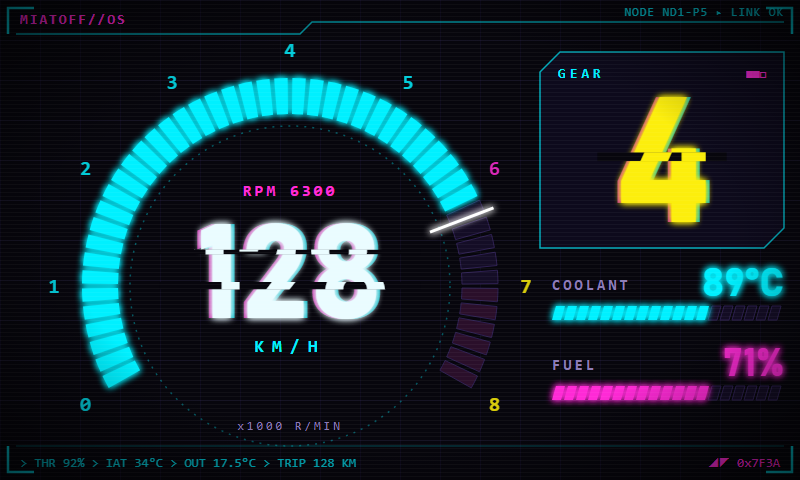
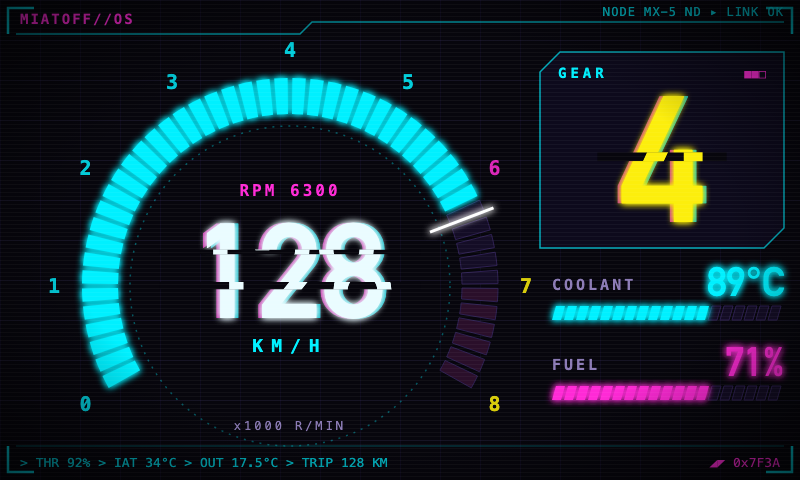
Mockups: match the 1000 rpm TRACK bars and the "MX-5 ND" label
make_mockups.py gets BAR_LO = 1000 (same as RPM.low) and the new label;
the four affected SVGs are regenerated (the unchanged script reproduces
the committed SVGs byte for byte, so nothing else moved).

The PNGs were rendered on macOS with stand-in fonts (DIN Condensed, DIN
Alternate, Menlo) because Agency FB, Bahnschrift and Consolas are not
available there. They should be re-rendered from the SVGs on Windows.

Claude-Session: https://claude.ai/code/session_01E6io7fgNMvVrAsTwGfsEeF

diff --git a/meters/design/make_mockups.py b/meters/design/make_mockups.py
@@ -11,6 +11,7 @@ CY, MG, YE = '#00f0ff', '#ff2bd6', '#fcee0a'
 OFF_FILL, OFF_LINE = '#140d26', '#2e2052'
 SANS = "Bahnschrift, 'Segoe UI', sans-serif"
 MONO = "Consolas, 'Courier New', monospace"
+BAR_LO = 1000   # rpm where the TRACK shift bars start (meters/js/app.js RPM.low)
 
 _id = [0]
 def uid(p):
@@ -102,7 +103,7 @@ def neon_drive():
     # header
     o += f'<path d="M16,34 H300 L312,22 H784" stroke="{CY}" stroke-width="1.5" fill="none" opacity="0.6"/>\n'
     o += t(20, 24, 'MIATOFF//OS', 14, MG, fam=MONO, weight=700, ls=2)
-    o += t(784, 16, 'NODE ND1-P5 &#9656; LINK OK', 12, CY, 'end', MONO, ls=1, extra='opacity="0.8"')
+    o += t(784, 16, 'NODE MX-5 ND &#9656; LINK OK', 12, CY, 'end', MONO, ls=1, extra='opacity="0.8"')
     # segmented tach
     N, gap = 48, 1.3
     step = SPAN / N
@@ -232,7 +233,7 @@ def neon_track():
     step = (784 - x0) / N
     off, on = '', ''
     for i in range(N):
-        r_hi = 3000 + (i + 1) * 4500 / N
+        r_hi = BAR_LO + (i + 1) * (7500 - BAR_LO) / N
         h = 26 + 74 * (i / (N - 1)) ** 1.4
         x = x0 + i * step
         pts = '%.1f,%.1f %.1f,%.1f %.1f,%.1f %.1f,%.1f' % (x + 6, 120 - h, x + 6 + w - 6, 120 - h, x + w - 6, 120, x, 120)
@@ -241,8 +242,8 @@ def neon_track():
         else:
             off += f'<polygon points="{pts}" fill="{OFF_FILL}" stroke="{OFF_LINE}"/>'
     o += off + '\n' + f'<g filter="url(#glow)">{on}</g>\n'
-    for k in range(3, 8):
-        x = x0 + (k * 1000 - 3000) / 4500 * (784 - x0)
+    for k in range(BAR_LO // 1000, 8):
+        x = x0 + (k * 1000 - BAR_LO) / (7500 - BAR_LO) * (784 - x0)
         o += t(round(x, 1), 140, str(k), 14, MG if k >= 7 else DIM, 'middle', MONO, 700)
     # giant gear
     o += glitch(400, 382, '3', 280, TXT, slices=((0.58, 0.66, 14), (0.22, 0.27, -10), (0.83, 0.86, 6)))
@@ -300,7 +301,7 @@ def ybar_h(x, y, n, step, w, h, lit, col=Y):
 def y_drive():
     rpm, speed, gear = 6300, 128, 4
     o = head(bg=K, grid='#3a3510')
-    o += yheader('MIATOFF', '// ND1 1.5 &#183; 74.00.324', 'SYS ONLINE')
+    o += yheader('MIATOFF', '// MX-5 ND &#183; 74.00.324', 'SYS ONLINE')
     # rev ramp: slanted bars that grow towards the redline, bottoms aligned
     N, x0, x1, base, skew = 32, 16, 508, 236, 12
     step = (x1 - x0) / N
@@ -393,13 +394,13 @@ def y_track():
     N, x0 = 24, 16
     step = (784 - x0) / N
     for i in range(N):
-        r_hi = 3000 + (i + 1) * 4500 / N
+        r_hi = BAR_LO + (i + 1) * (7500 - BAR_LO) / N
         x = x0 + i * step
         pts = [(x + 8, 18), (x + step - 7 + 8, 18), (x + step - 7, 118), (x, 118)]
         o += poly(pts, (RD if r_hi > 7000 else Y) if r_hi <= rpm else '#3a3a36')
     o += '\n'
-    for k in range(3, 8):
-        x = x0 + (k * 1000 - 3000) / 4500 * (784 - x0)
+    for k in range(BAR_LO // 1000, 8):
+        x = x0 + (k * 1000 - BAR_LO) / (7500 - BAR_LO) * (784 - x0)
         o += yt(round(x, 1), 144, str(k), 22, RD if k >= 7 else Y, 'middle')
     o += chamfer(296, 156, 208, 228, 30, fill=Y, stroke=Y, op=1)
     o += yt(400, 378, '3', 236, K, 'middle')
